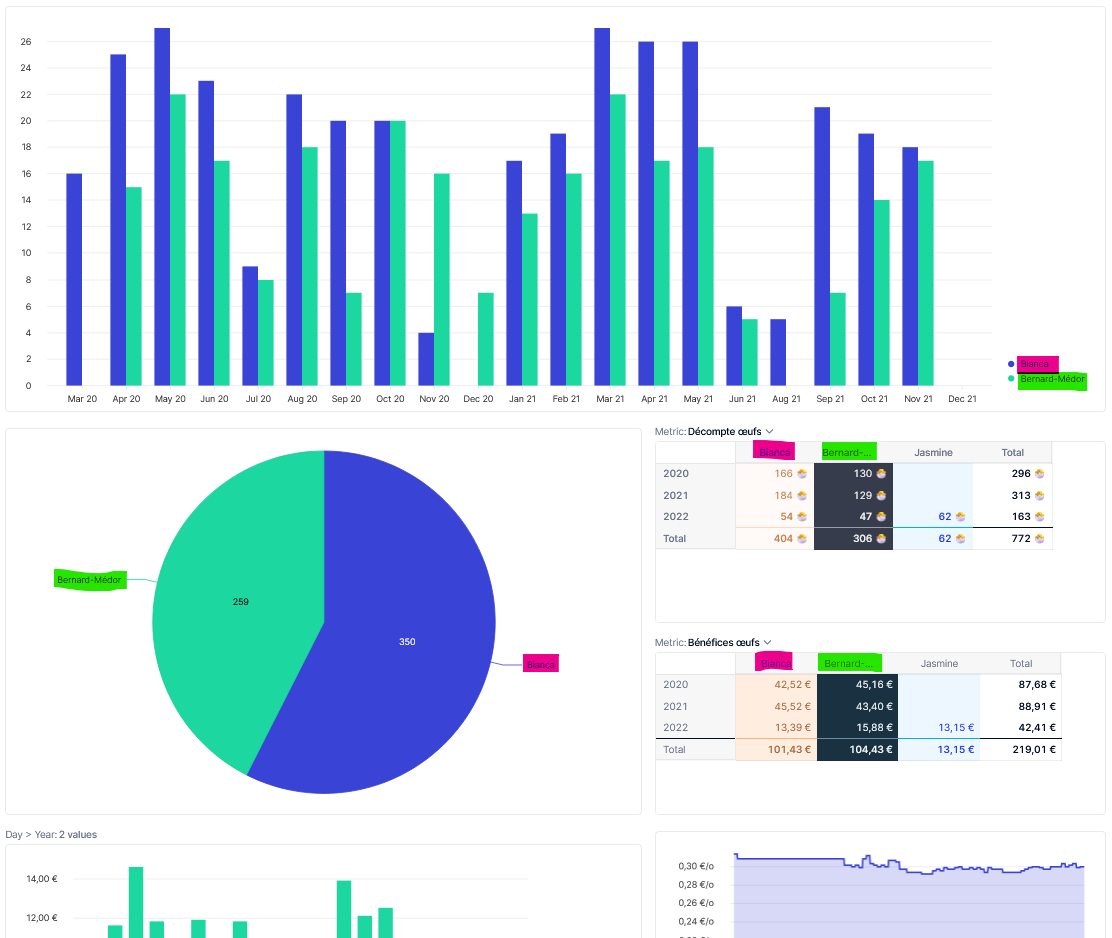
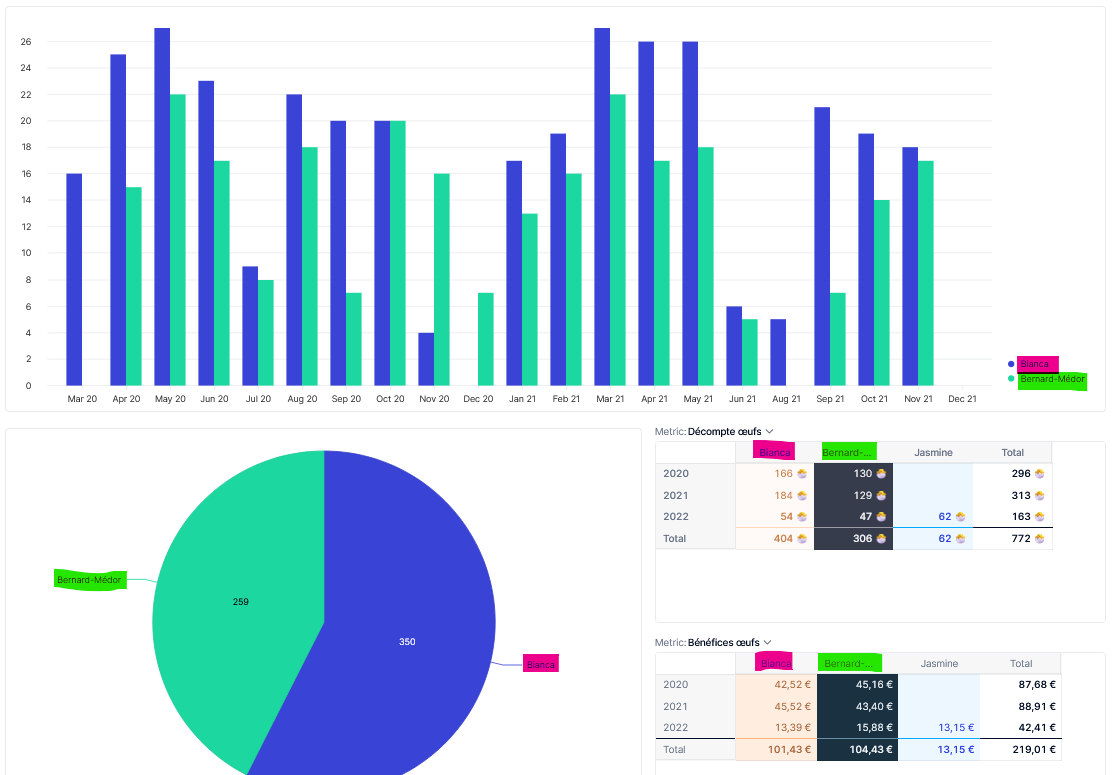
truncate images

diff --git a/2024-10-18-react-brussels/slides.md b/2024-10-18-react-brussels/slides.md
@@ -778,8 +778,8 @@ layout: center
 ## Boards at Pigment
 
 <div style="display: grid; grid-template-columns: 2fr 1fr">
-<img v-click.hide="3" style="grid-row: 1; grid-column: 1; height: 70%" src="/assets/pigment-board.png" />
-<img v-click="3" style="grid-row: 1; grid-column: 1; height: 70%" src="/assets/pigment-board-2.png" />
+<img v-click.hide="3" style="grid-row: 1; grid-column: 1;" src="/assets/pigment-board.png" />
+<img v-click="3" style="grid-row: 1; grid-column: 1;" src="/assets/pigment-board-2.png" />
 
 <div style="grid-row: 1; grid-column: 2">
 
